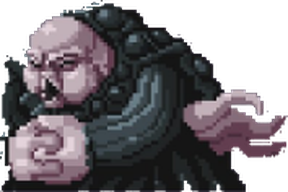
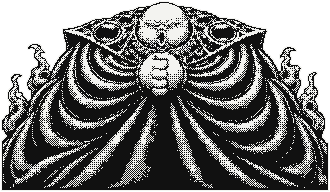
feat: sprites à l'encre d'Ubik, Conrad et Slan (toute la Main de Dieu est faite)

diff --git a/docs/sprites-encre.md b/docs/sprites-encre.md
@@ -122,7 +122,8 @@ Rien dans l'appli ne retourne les images : un boss généré tourné vers la dro
 6. Boss généré tourné vers la droite : le retourner avant la mise au format (fait pour Zodd).
 
 Faits : Casca et Griffith (21/10/2026), Bazuso (24/10/2026, pupilles ajoutées à la main après la mise au format), Gambino, Judeau, Pippin et Rickert (24/10/2026), Godo, Zodd en forme humaine (retourné, éclairci de 0.15) et
-le Chevalier Squelette (éclairci de 0.15, crâne redessiné à la main), Farnèse (en armure), Schierke, Flora, Serpico et Isidro (24/10/2026) : tous les compagnons sont faits. Ennemis : Femto (éclairci de 0.15) et Void (éclairci de 0.15, visage redessiné à la main) (24/10/2026). Plus difficiles à obtenir : ouvrir une
+le Chevalier Squelette (éclairci de 0.15, crâne redessiné à la main), Farnèse (en armure), Schierke, Flora, Serpico et Isidro (24/10/2026) : tous les compagnons sont faits. Ennemis : Femto (éclairci de 0.15) et Void (éclairci de 0.15, visage redessiné à la main) (24/10/2026), Ubik, Conrad (monticule plus large que haut) et Slan (visage
+redessiné à la main) (25/10/2026). Plus difficiles à obtenir : ouvrir une
 nouvelle conversation ChatGPT tous les 3 ou 4 personnages (sinon il recopie Guts), ne pas joindre d'image sanglante et
 éviter les mots violents (refus pour « contenu violent »). Le Guts généré servira aux planches de marche de la carte, qui demandent plusieurs
 images (une par pas) : à faire à part.

diff --git a/docs/HANDOFF.md b/docs/HANDOFF.md
@@ -40,8 +40,8 @@ Tests : 26 suites, 215 tests, tous verts. CI GitHub (`.github/workflows/ci.yml`)
 ### Ce qui n'est PAS fait
 
 - **Sprites à l'encre** (voir `docs/sprites-encre.md`) : les 14 compagnons sont refaits (24/10/2026), ainsi que Bazuso,
-  Femto et Void. Restent Ubik, Conrad, Slan, Mozgus et Grunbeld (formes humaines) et les formes d'Apôtre (Zodd, Mozgus,
-  Grunbeld en dragon). Pour en ajouter un : PNG à fond transparent, 192 px de haut, `assets/companions/<id>.png`, puis
+  toute la Main de Dieu (Void, Ubik, Conrad, Slan, Femto). Restent Mozgus et Grunbeld (formes humaines) et les formes
+  d'Apôtre (Zodd, Mozgus, Grunbeld en dragon). Pour en ajouter un : PNG à fond transparent, 192 px de haut, `assets/companions/<id>.png`, puis
   `image: require("../../assets/companions/<id>.png")` dans `src/data/companions.ts`. Les formes de boss vont dans `assets/bosses/`.
 - **Marche de Guts jeune** : planche de 6 images (`assets/map/guts-jeune-walk.png`, 6 × 155 × 192 px) faite par Nathan
   sur fond vert, détourée et retournée. Le dessin d'origine de @CRYBAG n'est plus utilisé dans l'app (crédit « D'après un
